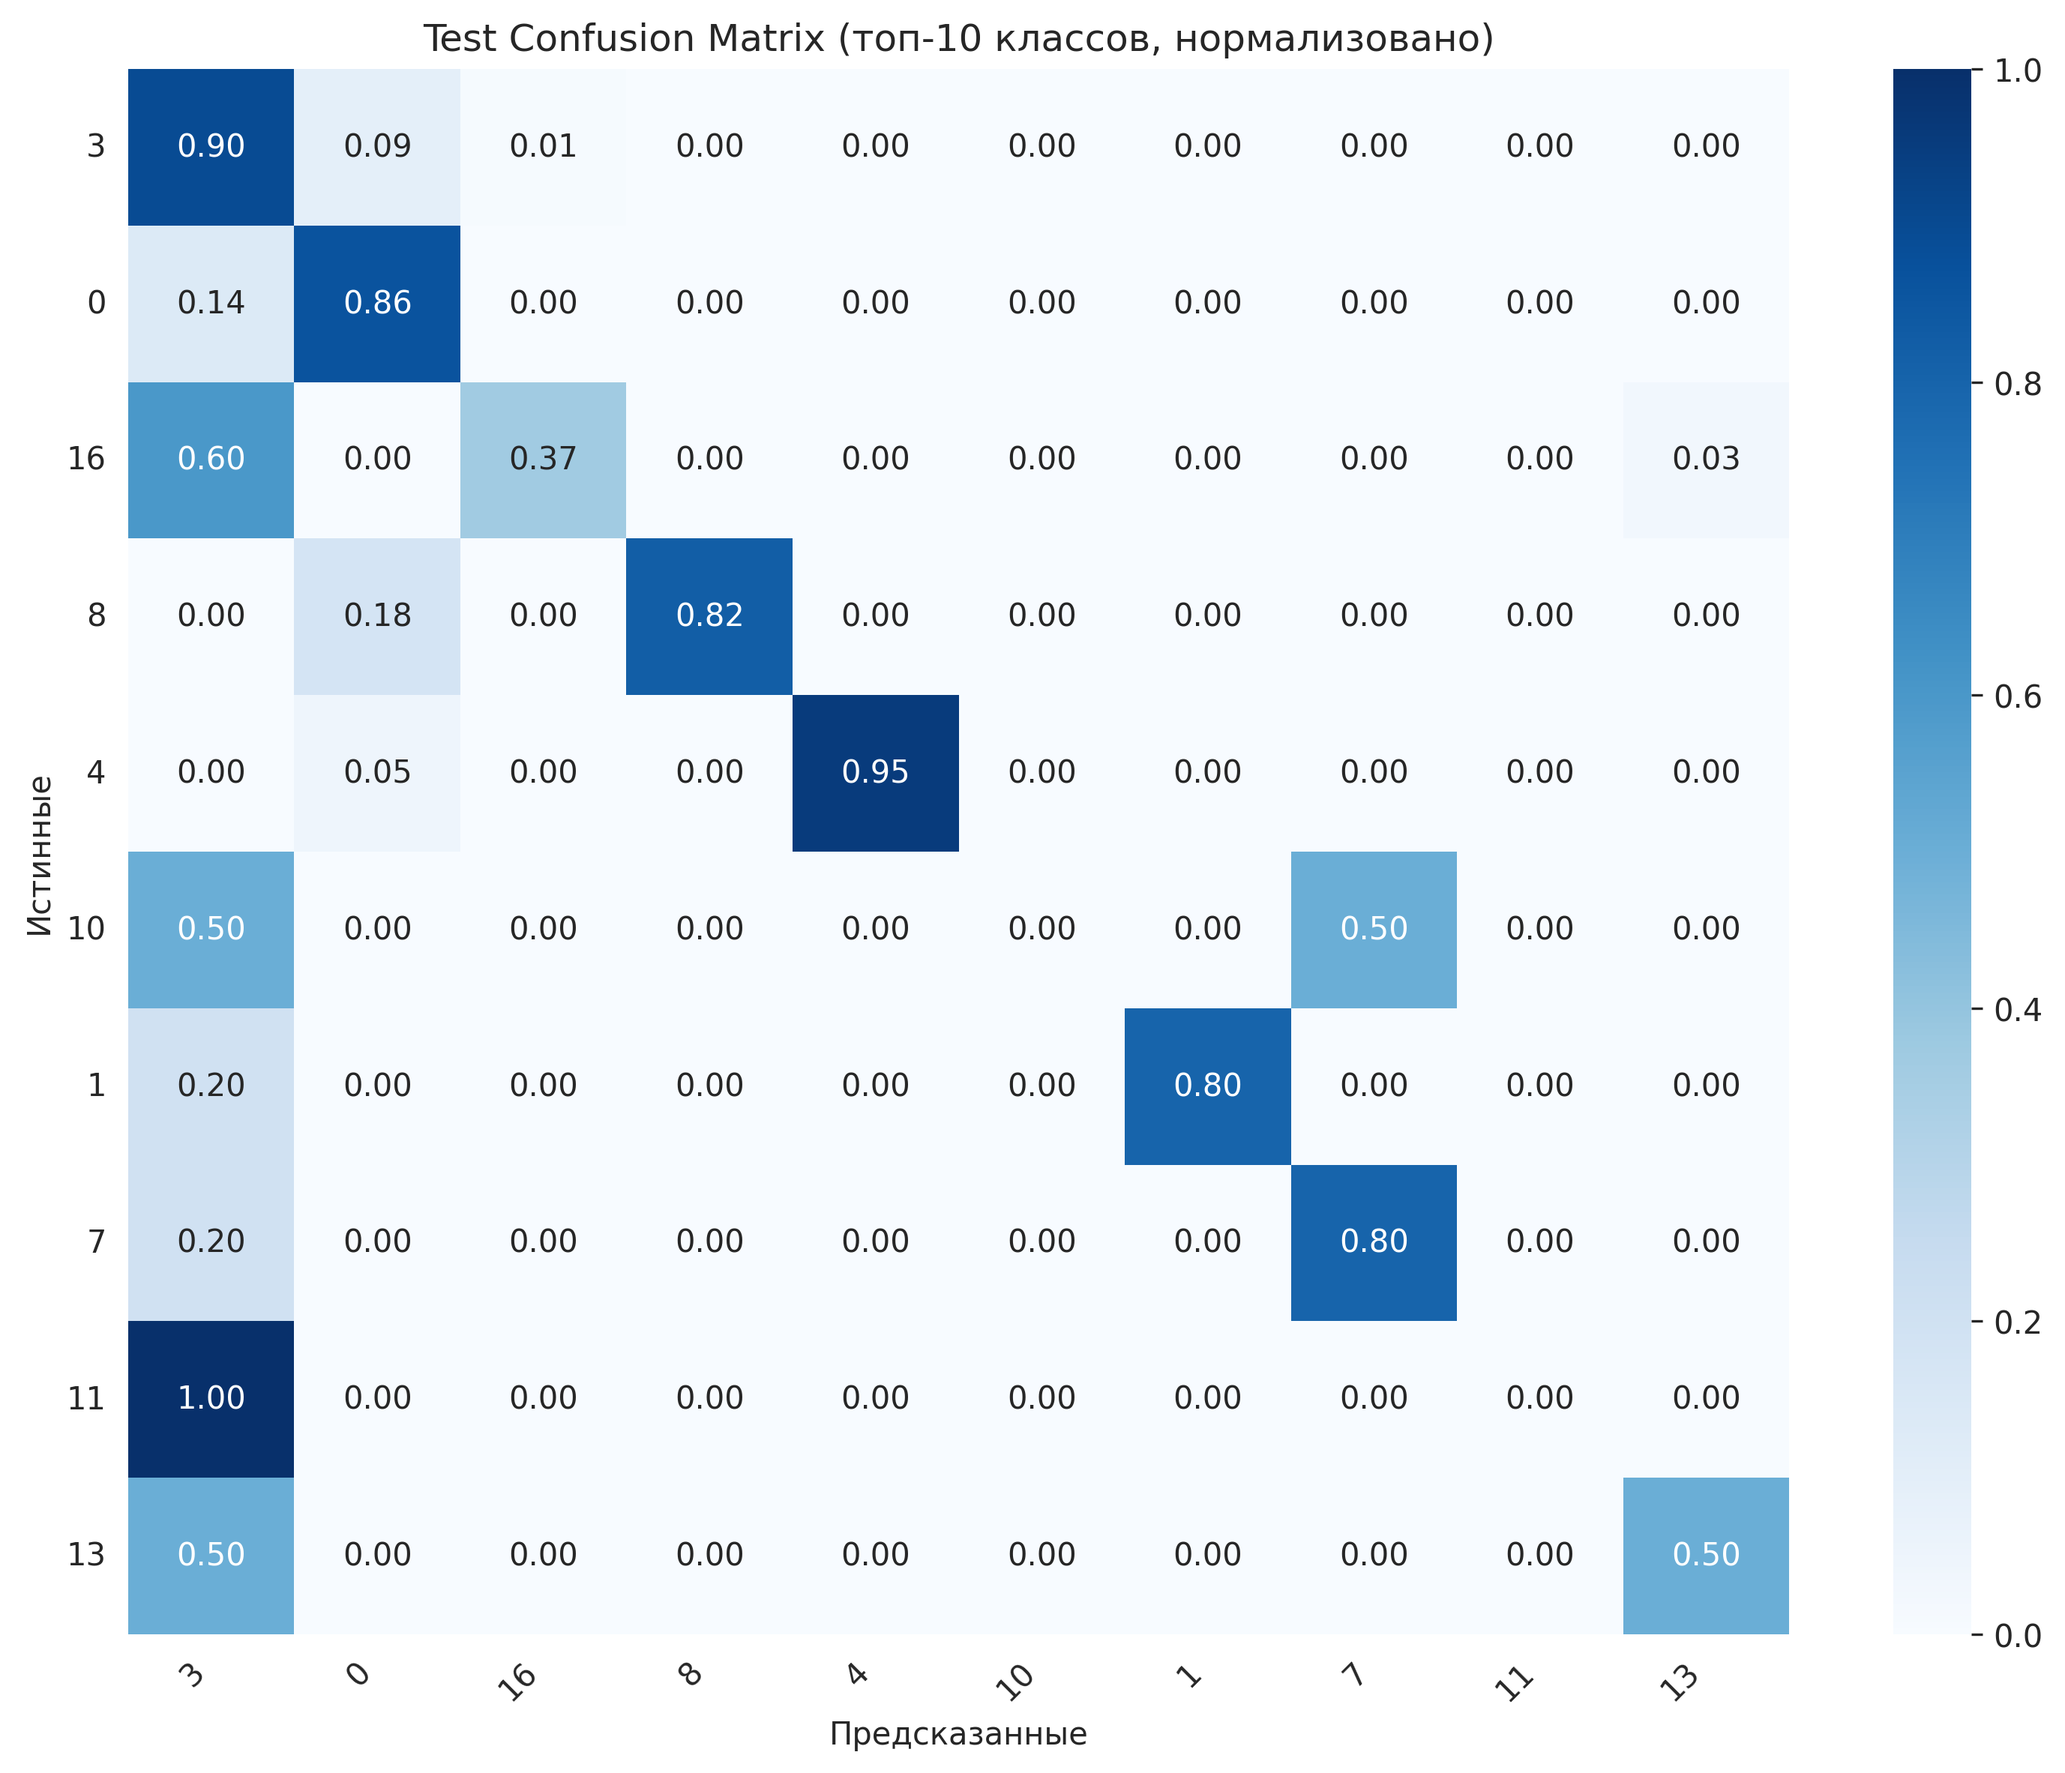
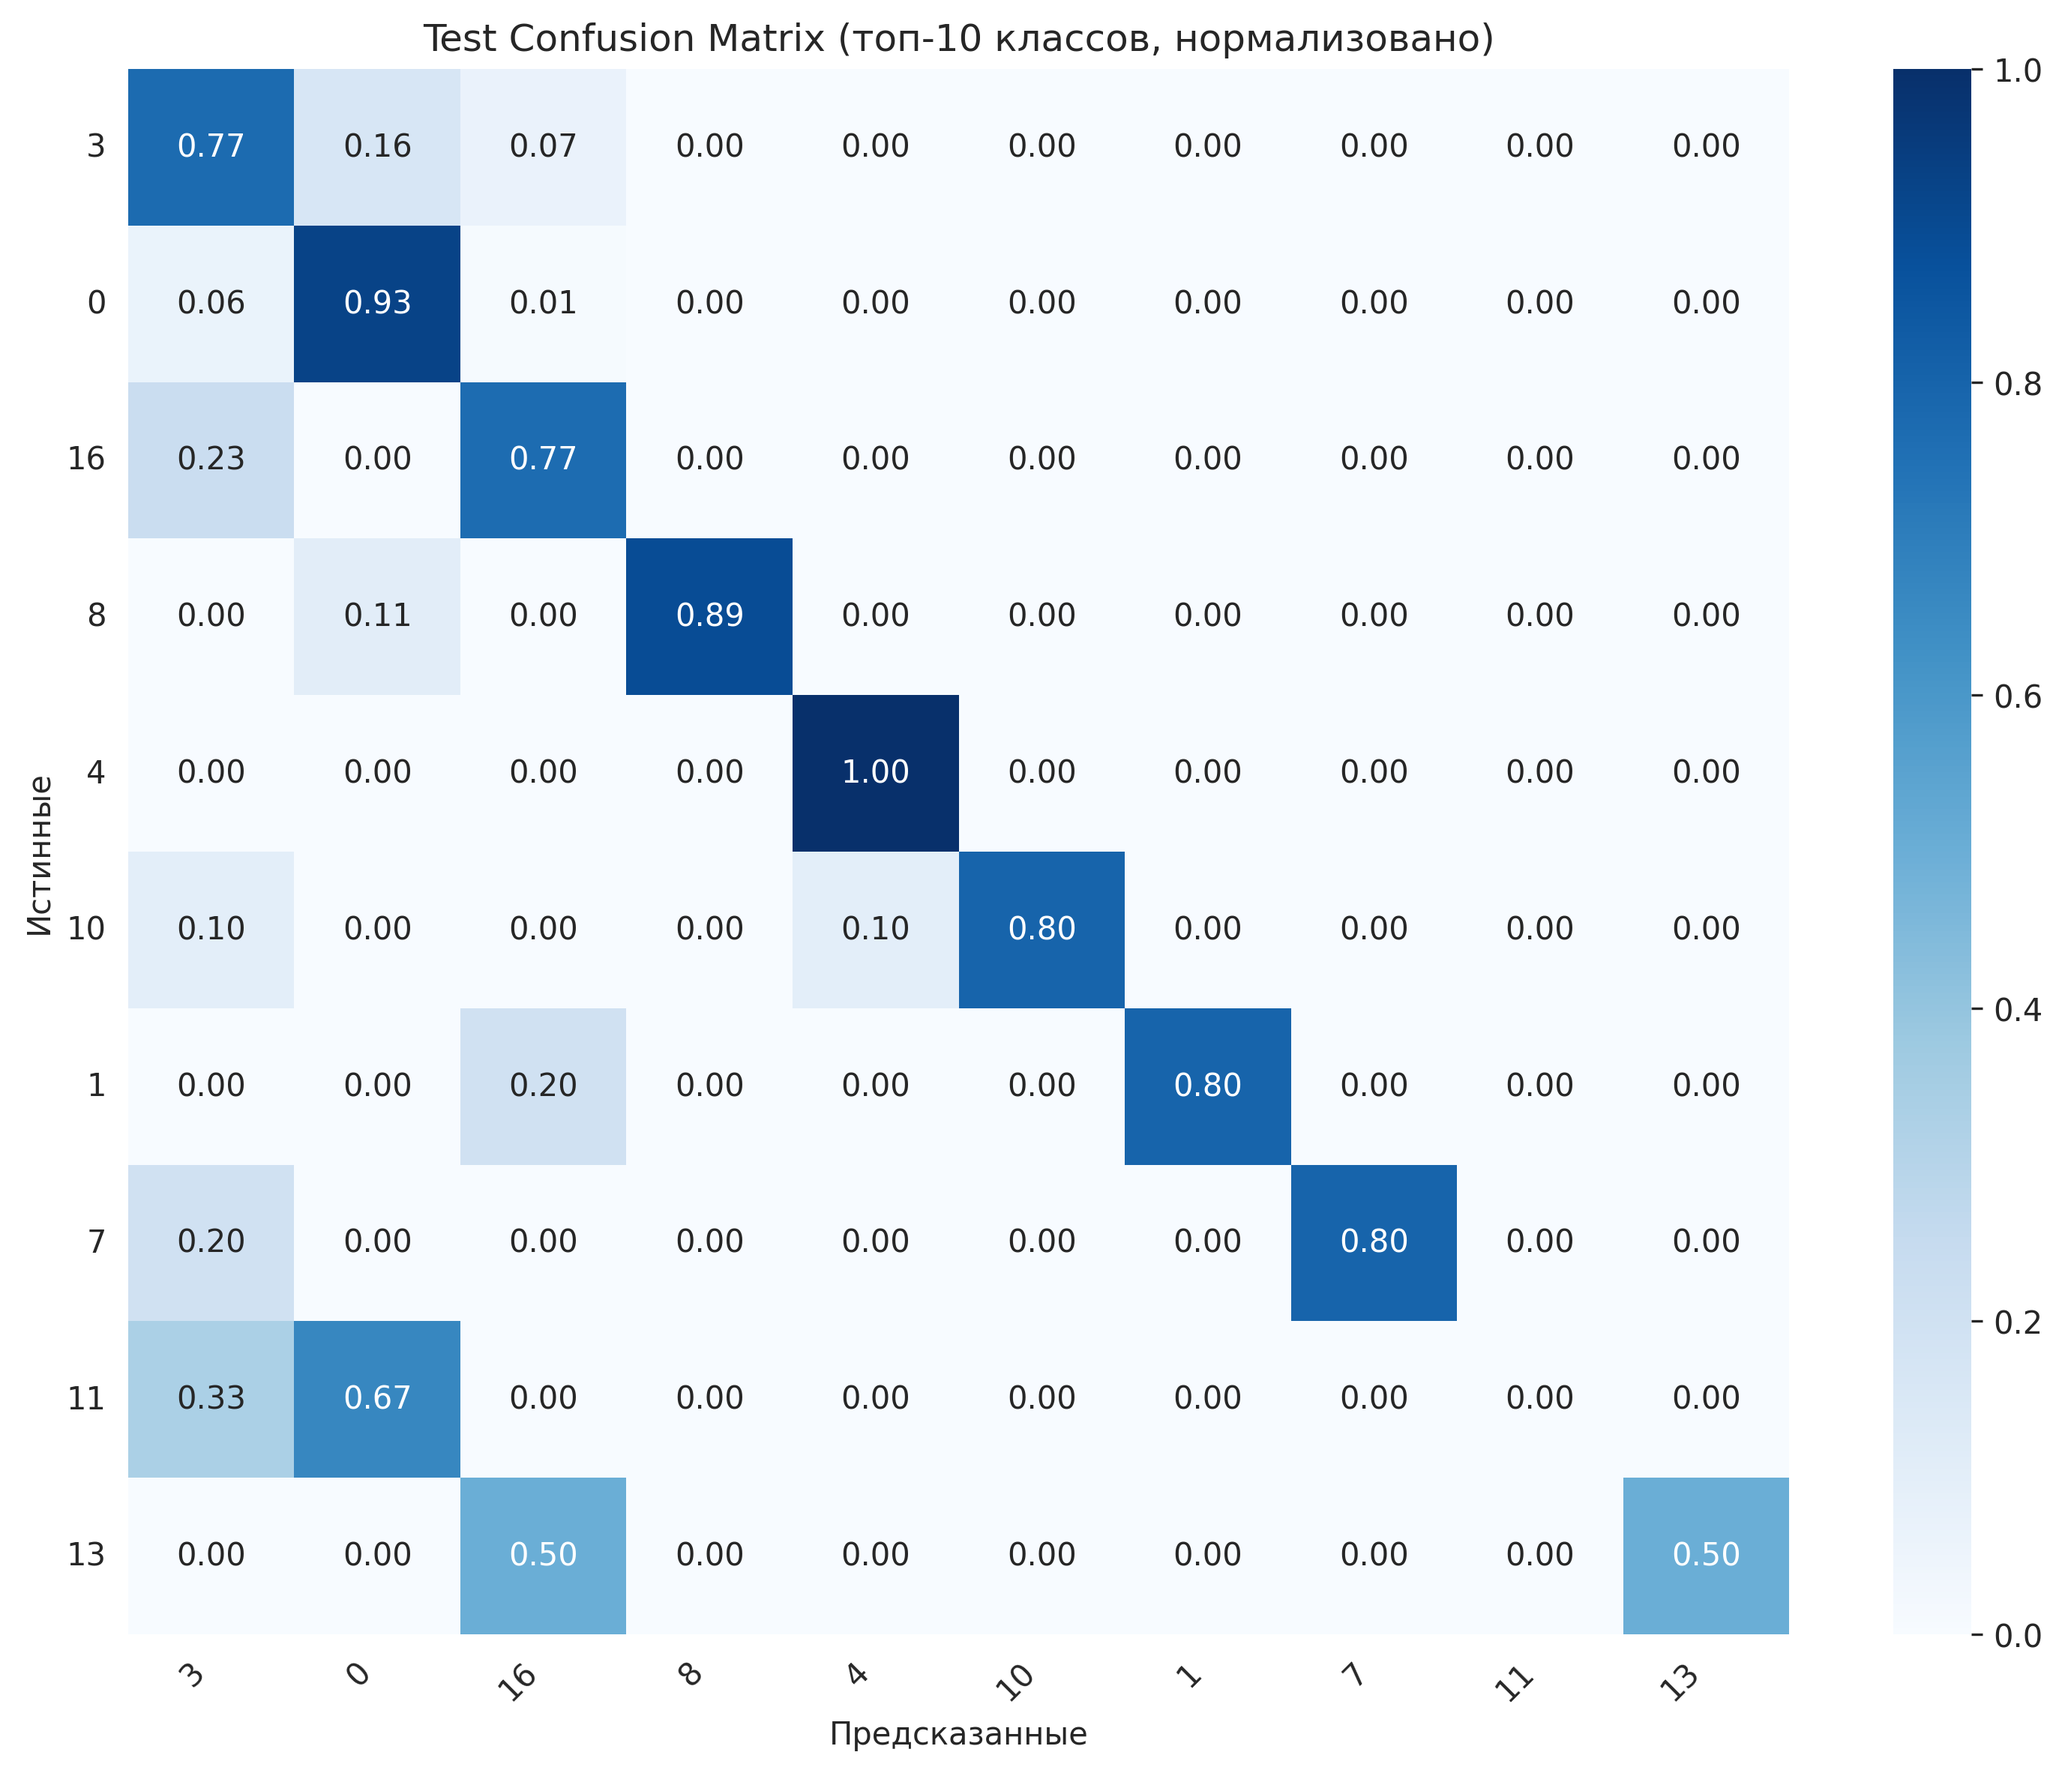
add ensemble

diff --git a/src/models/models.py b/src/models/models.py
@@ -1,3 +1,5 @@
+import os
+import json
 from typing import ClassVar
 
 import pandas as pd
@@ -287,16 +289,29 @@ class TransformerModel(BaseModel):
 
     def save(self, path: str):
         self.trainer.save_model(path)
-        # токенизатор тоже можно сохранить
         self.tokenizer.save_pretrained(path)
+        # max_length нигде в HF-чекпоинте не сохраняется сам по себе — держим отдельно
+        with open(os.path.join(path, "meta.json"), "w") as f:
+            json.dump({"max_length": self.max_length}, f)
 
     @classmethod
     def load(cls, path: str):
-        model = cls()
+        # cls() тут не подходит: __init__ требует num_labels и заново тянет
+        # чекпоинт из HF Hub. __new__ обходит это, атрибуты выставляем сами.
+        with open(os.path.join(path, "meta.json")) as f:
+            meta = json.load(f)
+        model = cls.__new__(cls)
         model.model = AutoModelForSequenceClassification.from_pretrained(path)
         model.tokenizer = AutoTokenizer.from_pretrained(path)
+        model.model_name = path
+        model.max_length = meta["max_length"]
+        model.num_labels = model.model.config.num_labels
+        model.trainer = Trainer(model=model.model)  # только для predict(), без обучения
         model.is_fitted = True
         return model
+
+
+_LOADABLE_MODEL_CLASSES = {cls.__name__: cls for cls in (LogRegModel, CatBoostModel, TransformerModel)}
 
 
 class EnsembleModel(BaseModel):
@@ -313,8 +328,21 @@ class EnsembleModel(BaseModel):
         self.meta_model = meta_model if meta_model is not None else LogisticRegression()
         self.is_fitted = False
 
+    @classmethod
+    def from_config(cls, model_cfg, **extra):
+        base_model_path = [(model, model_cfg.base_models[model]) for model in model_cfg.base_models]
+        return cls.from_pretrained(base_model_path, meta_model = model_cfg.meta_model)
+
+    @classmethod
+    def from_pretrained(cls, specs, meta_model=None):
+        """specs: [(kind, path), ...], kind — ключ MODEL_REGISTRY (напр. 'catboost', 'rubert').
+        Загружает каждую базовую модель с диска и собирает из них ансамбль."""
+        base_models = [MODEL_REGISTRY[kind].load(path) for kind, path in specs]
+        return cls(base_models=base_models, meta_model=meta_model)
+
     def train(self, texts, y, val_texts=None, val_y=None, **kwargs):
-        # Ожидаем, что base_models уже обучены; обучаем только мета-модель на вероятностях из base_models на валидации
+        # обучаем только мета-модель на вероятностях из base_models на валидации
+
         if val_texts is None or val_y is None:
             raise ValueError("Для обучения ансамбля нужна валидационная выборка.")
         # Получаем вероятности на валидации от каждой базовой модели
@@ -335,12 +363,25 @@ class EnsembleModel(BaseModel):
         return self.meta_model.predict_proba(X_meta)
 
     def save(self, path: str):
-        # Сохраняем все базовые модели и мета-модель в один архив (или отдельно)
-        pass
+        """path — папка: каждая базовая модель уходит в свою подпапку/файл + метаданные ансамбля."""
+        os.makedirs(path, exist_ok=True)
+        base_meta = []
+        for i, model in enumerate(self.base_models):
+            sub_path = os.path.join(path, f"base_{i}_{type(model).__name__}")
+            model.save(sub_path)
+            base_meta.append({"class": type(model).__name__, "path": os.path.basename(sub_path)})
+        joblib.dump({"meta_model": self.meta_model, "base_meta": base_meta}, os.path.join(path, "ensemble_meta.pkl"))
 
     @classmethod
     def load(cls, path: str):
-        pass
+        bundle = joblib.load(os.path.join(path, "ensemble_meta.pkl"))
+        base_models = [
+            _LOADABLE_MODEL_CLASSES[m["class"]].load(os.path.join(path, m["path"]))
+            for m in bundle["base_meta"]
+        ]
+        model = cls(base_models=base_models, meta_model=bundle["meta_model"])
+        model.is_fitted = True
+        return model
 
 
 class FocalLossTrainer(Trainer):
@@ -372,8 +413,7 @@ MODEL_REGISTRY = {
     'catboost': CatBoostModel,
     'rubert': TransformerModel,
     'ruroberta': TransformerModel,
-    # 'ensemble' сюда намеренно не входит: EnsembleModel не управляется конфигом,
-    # собирается вручную из уже обученных моделей (см. докстринг класса).
+    'ensemble': EnsembleModel,
 }
 
 def build_model(model_cfg, **extra):

diff --git a/src/config/schema.py b/src/config/schema.py
@@ -107,6 +107,10 @@ class RurobertaCfg(BaseModelCfg):
             raise ValueError("fine_tune_mode='gradual' требует unfreeze_schedule")
         return self
 
+class EnsembleCfg(BaseModelCfg):
+    kind: Literal["ensemble"]
+    base_models: list[dict] = [{'rubert': 'models/rubert_run1'},
+                                {'catboost': 'models/rubert_run2'}]
 
 class TrackingCfg(StrictModel):
     enabled: bool = True
@@ -120,7 +124,7 @@ class TrackingCfg(StrictModel):
         return v.strip().replace(" ", "-")   # валидаторы могут не только проверять, но и нормализовать
 
 ModelCfg = Annotated[
-    Union[LogRegCfg, CatBoostCfg, RubertCfg, RurobertaCfg],
+    Union[LogRegCfg, CatBoostCfg, RubertCfg, RurobertaCfg, EnsembleCfg],
     Field(discriminator="kind"),
 ]
 
